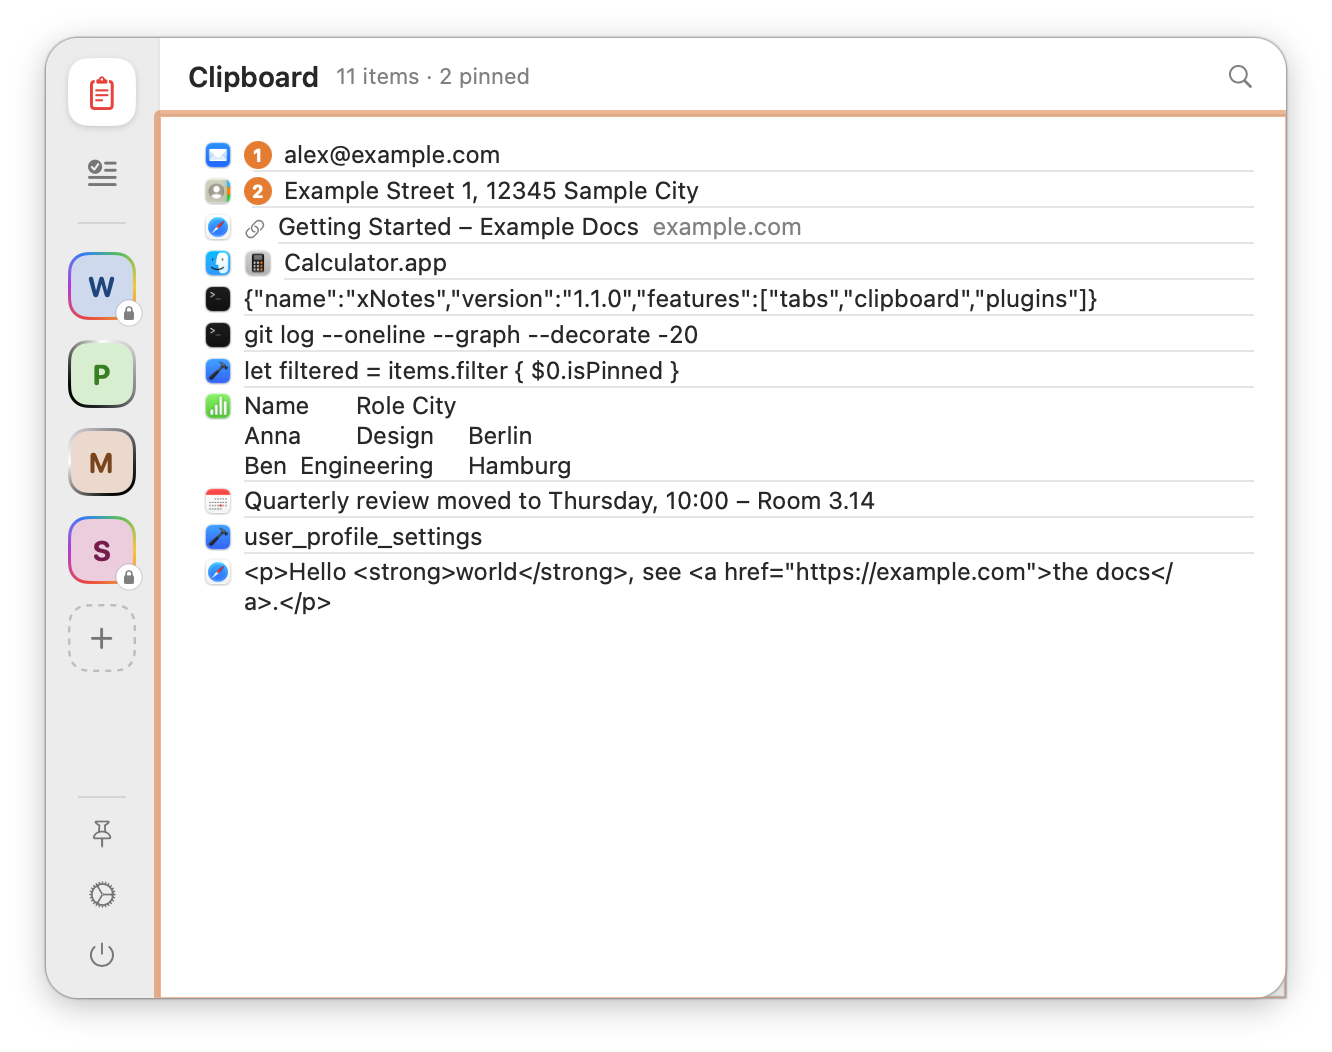
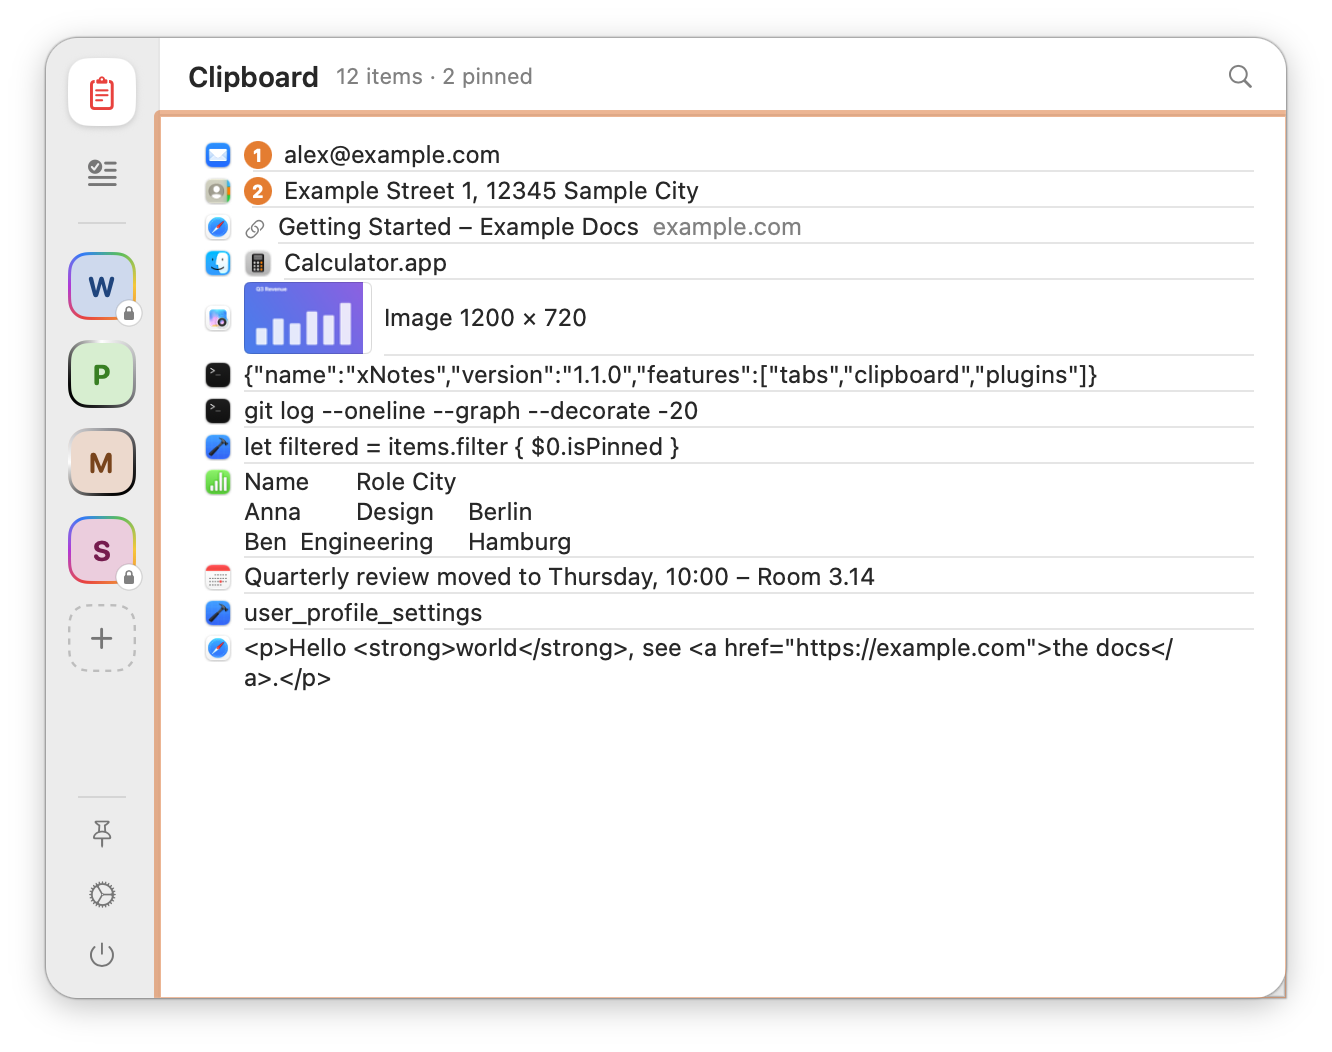
Update clipboard screenshot with an image entry
Demo mode draws a sample chart as clipboard image. Image rows center
the app icon and text on the thumbnail.

Changed region(s): [[0.1539, 0.2433, 0.9234, 0.6692], [0.2462, 0.0608, 0.4002, 0.0913]]

diff --git a/xNotes/Manager/DemoMode.swift b/xNotes/Manager/DemoMode.swift
@@ -18,7 +18,7 @@
 //  Release builds ignore the flag.
 //
 
-import Foundation
+import AppKit
 
 enum DemoMode {
     static var isEnabled: Bool {
@@ -86,6 +86,51 @@ enum DemoData {
                 lastEditedAt: now
             ),
         ]
+    }
+
+    /// A drawn sample chart as clipboard image, stored in the demo image folder.
+    static func sampleImageItem(store: ClipboardImageStore, now: Date) -> ClipboardItem? {
+        let id = UUID(uuidString: "D3A0C0DE-0000-4000-8000-000000000001")!
+        guard let png = sampleChartPNG(),
+              let processed = ClipboardImageStore.process(png),
+              store.save(processed, for: id) else { return nil }
+        return ClipboardItem(
+            id: id,
+            text: "Image \(processed.info.width) × \(processed.info.height)",
+            date: now.addingTimeInterval(-8 * 60),
+            sourceAppName: "Preview",
+            sourceAppBundleId: "com.apple.Preview",
+            pasteboardTypes: ["public.png"],
+            imageInfo: processed.info
+        )
+    }
+
+    private static func sampleChartPNG() -> Data? {
+        let width = 1200, height = 720
+        guard let rep = NSBitmapImageRep(
+            bitmapDataPlanes: nil, pixelsWide: width, pixelsHigh: height, bitsPerSample: 8,
+            samplesPerPixel: 4, hasAlpha: true, isPlanar: false, colorSpaceName: .deviceRGB,
+            bytesPerRow: 0, bitsPerPixel: 0
+        ) else { return nil }
+        NSGraphicsContext.saveGraphicsState()
+        NSGraphicsContext.current = NSGraphicsContext(bitmapImageRep: rep)
+        let bounds = NSRect(x: 0, y: 0, width: width, height: height)
+        NSGradient(starting: NSColor(calibratedRed: 0.20, green: 0.45, blue: 0.95, alpha: 1),
+                   ending: NSColor(calibratedRed: 0.55, green: 0.30, blue: 0.90, alpha: 1))?
+            .draw(in: bounds, angle: 35)
+        let values: [CGFloat] = [0.35, 0.55, 0.45, 0.70, 0.62, 0.88]
+        let barWidth: CGFloat = 110, gap: CGFloat = 60, baseY: CGFloat = 90
+        for (index, value) in values.enumerated() {
+            let x = 120 + CGFloat(index) * (barWidth + gap)
+            NSColor.white.withAlphaComponent(0.85).setFill()
+            NSBezierPath(roundedRect: NSRect(x: x, y: baseY, width: barWidth, height: value * 480), xRadius: 14, yRadius: 14).fill()
+        }
+        NSString(string: "Q3 Revenue").draw(at: NSPoint(x: 120, y: 620), withAttributes: [
+            .font: NSFont.systemFont(ofSize: 56, weight: .bold),
+            .foregroundColor: NSColor.white,
+        ])
+        NSGraphicsContext.restoreGraphicsState()
+        return rep.representation(using: .png, properties: [:])
     }
 
     static let textExpansionRules: [TextExpansionRule] = [

diff --git a/xNotes/View/ClipboardView.swift b/xNotes/View/ClipboardView.swift
@@ -364,7 +364,8 @@ struct ClipboardView: View {
                 .frame(maxWidth: 64, maxHeight: 36, alignment: .leading)
                 .clipShape(RoundedRectangle(cornerRadius: 3))
                 .overlay(RoundedRectangle(cornerRadius: 3).strokeBorder(Color.secondary.opacity(0.3), lineWidth: 0.5))
-                .alignmentGuide(.firstTextBaseline) { $0[.bottom] - 3 }
+                // Text baseline slightly below the middle, so icon and text sit vertically centered.
+                .alignmentGuide(.firstTextBaseline) { $0[VerticalAlignment.center] + 4 }
         } else {
             Image(systemName: "photo")
                 .foregroundStyle(.secondary)

diff --git a/xNotes/Manager/NotesManager.swift b/xNotes/Manager/NotesManager.swift
@@ -188,6 +188,11 @@ class NotesManager: ObservableObject {
         #if DEBUG
         if DemoMode.isEnabled {
             tabs = DemoData.tabs()
+            if let image = DemoData.sampleImageItem(store: imageStore, now: Date()),
+               let index = tabs.firstIndex(where: { $0.kind == .clipboard }) {
+                let position = min(4, tabs[index].clipboardItems.count)
+                tabs[index].clipboardItems.insert(image, at: position)
+            }
             return
         }
         #endif

diff --git a/README.md b/README.md
@@ -72,7 +72,7 @@ Alternatively, right-click the app in Finder and choose "Open".
 - In the clipboard-only panel, type to filter; Return pastes the first match into the last app
 
 <p align="center">
-  <img src="./clipboard.png" width="600" alt="Clipboard history with pinned items, a link with its title and a copied file">
+  <img src="./clipboard.png" width="600" alt="Clipboard history with pinned items, a link with its title, a copied file and an image">
 </p>
 
 ### Clipboard Transform Plugins
